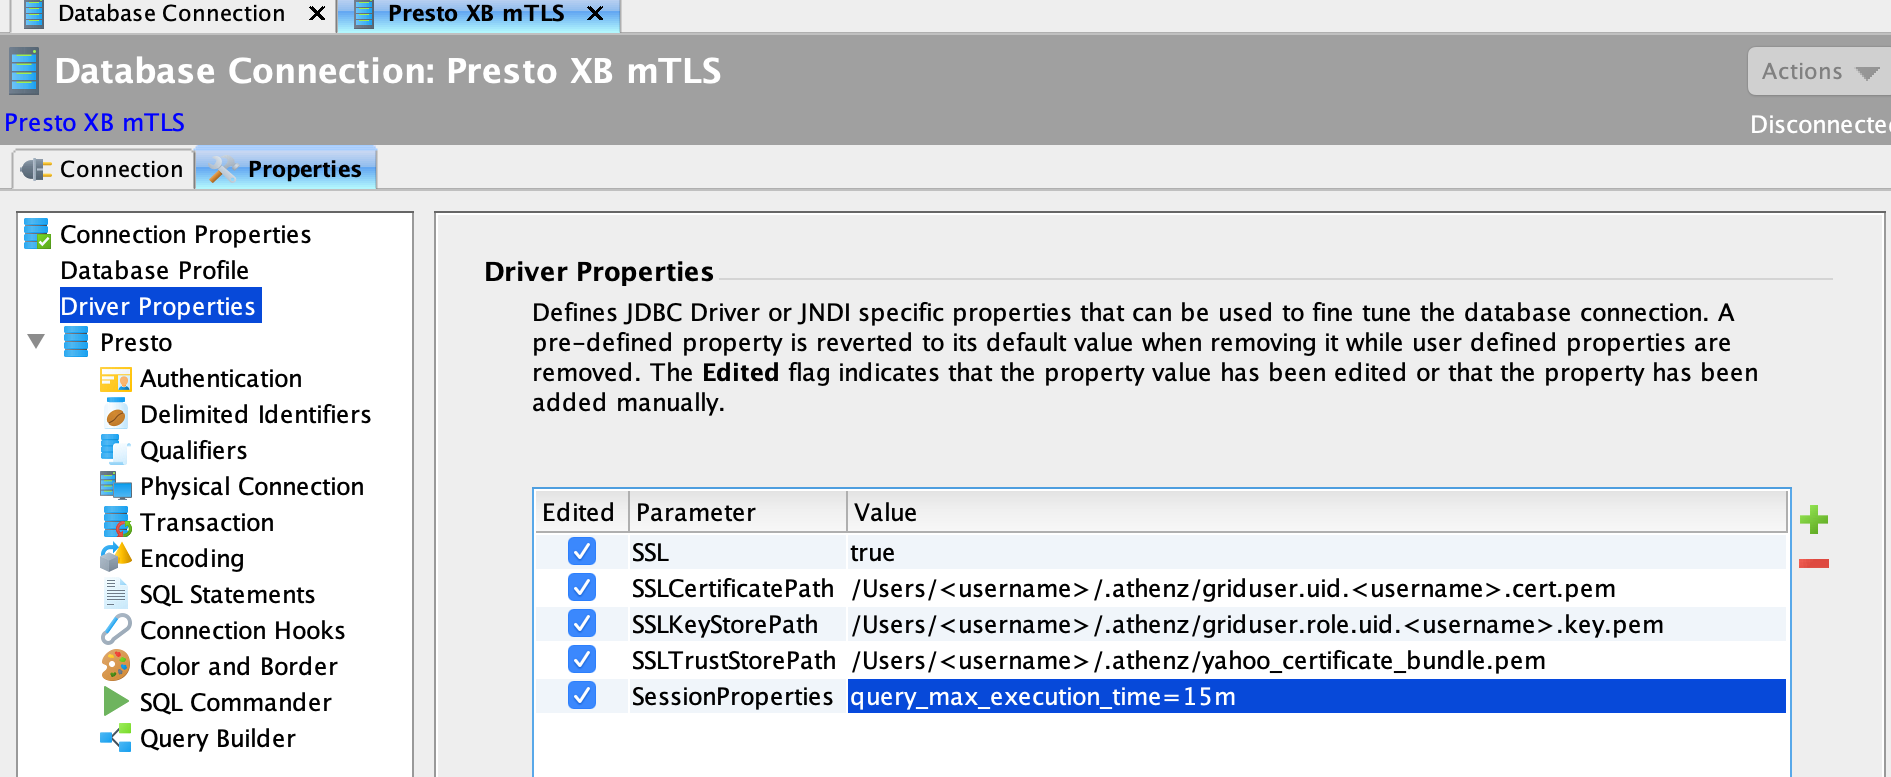
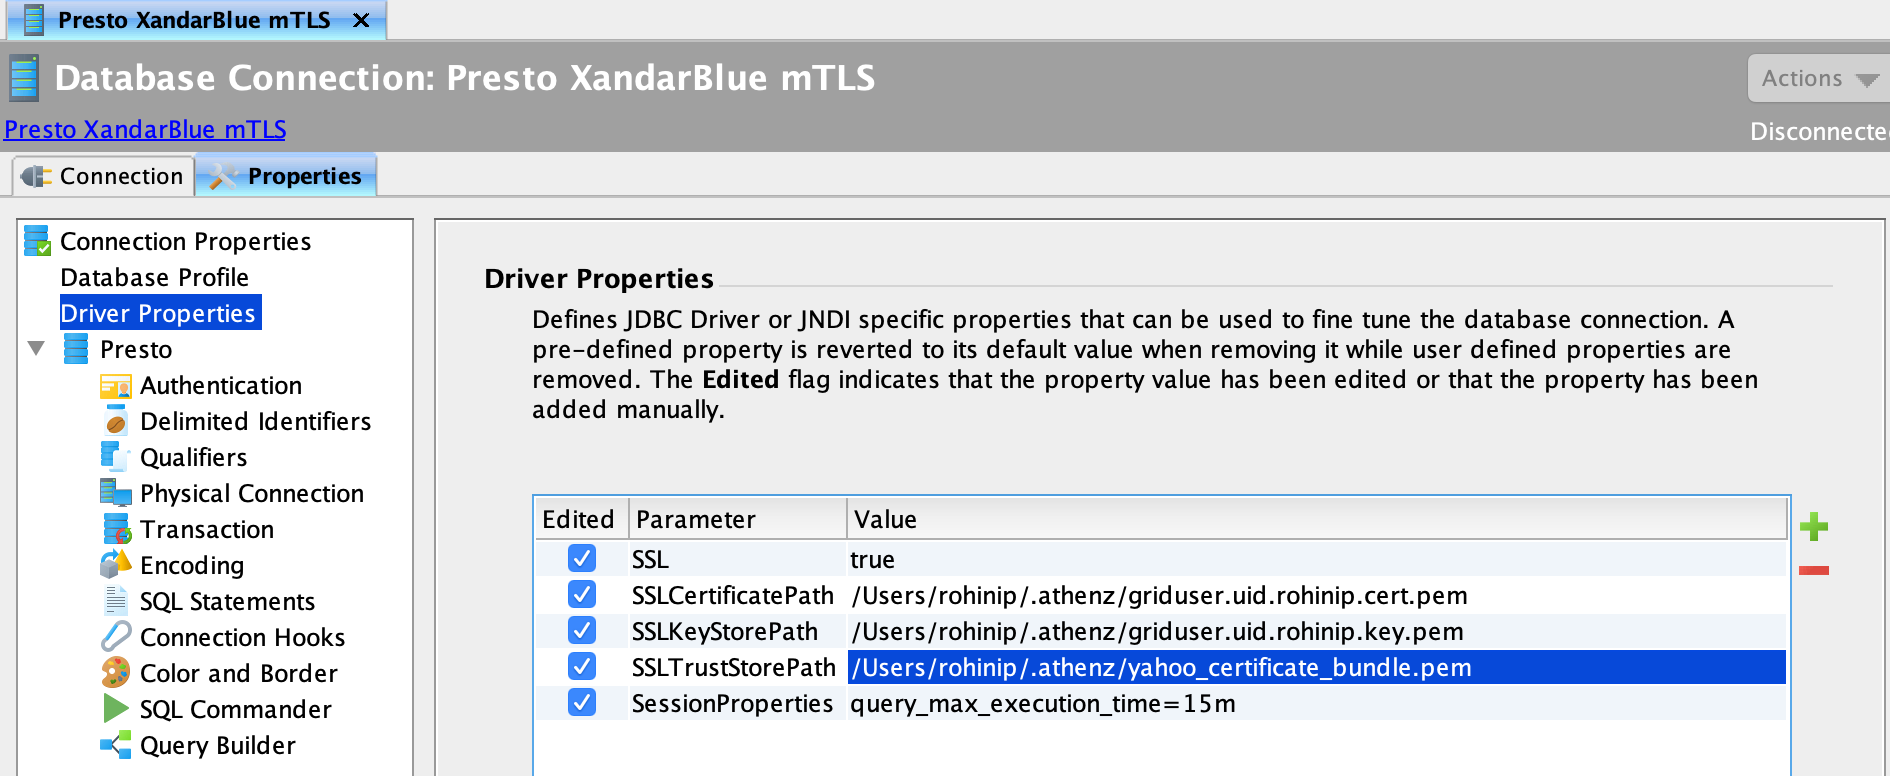
Fix wrong file path (#296)

Changed region(s): [[0.0, 0.0, 1.0, 0.9897], [0.281, 0.6186, 0.9677, 0.9278], [0.2497, 0.3402, 0.9677, 0.5567]]

diff --git a/external/presto/guide/connectivity/files/macOS_presto_dbvis_add_connection.py b/external/presto/guide/connectivity/files/macOS_presto_dbvis_add_connection.py
@@ -46,10 +46,11 @@ Profile = auto
 Type = presto
 ServerInfoFormat = 1"""
 
-properties = """SSLKeyStorePath = {}/.athenz/griduser.uid.{}.key.pem
-SSLTrustStorePath = {}/.athenz/yahoo_certificate_bundle.pem
+properties = """SSL = true
 SSLCertificatePath = {}/.athenz/griduser.uid.{}.cert.pem
-SSL = true
+SSLKeyStorePath = {}/.athenz/griduser.uid.{}.key.pem
+SSLTrustStorePath = {}/.athenz/yahoo_certificate_bundle.pem
+SessionProperties = query_max_execution_time=15m
 dbvis.ConnectionModeMigrated = true
 dbvis.TransactionIsolation = 0"""
 
@@ -92,9 +93,9 @@ if cluster in clusterdetails:
         dbVis_connection_details_dict = OrderedDict(
             [i.strip() for i in item.split("=")] for item in dbVis_connection_details.split("\n"))
 
-        properties = properties.format(userdir, username, userdir, userdir, username)
+        properties = properties.format(userdir, username, userdir, username, userdir)
         properties_dict = OrderedDict(
-            [i.strip() for i in item.split("=")] for item in properties.split("\n"))
+            [i.strip() for i in item.split("=", 1)] for item in properties.split("\n"))
 
         url_properties = url_properties.format(host_name, catalog, schema)
         url_properties_dict = OrderedDict(

diff --git a/external/presto/guide/connectivity/dbvis.rst b/external/presto/guide/connectivity/dbvis.rst
@@ -139,7 +139,7 @@ UI
 
     SSL=true
     SSLCertificatePath=/Users/<username>/.athenz/griduser.uid.<username>.cert.pem
-    SSLKeyStorePath=/Users/<username>/.athenz/griduser.role.uid.<username>.key.pem
+    SSLKeyStorePath=/Users/<username>/.athenz/griduser.uid.<username>.key.pem
     SSLTrustStorePath=/Users/<username>/.athenz/yahoo_certificate_bundle.pem
     SessionProperties=query_max_execution_time=15m
 
@@ -150,7 +150,7 @@ UI
 
   .. image:: images/dbvis_configure_connection_properties.png
      :height: 516px
-     :width: 700px
+     :width: 836px
      :scale: 80%
      :alt:
      :align: left
